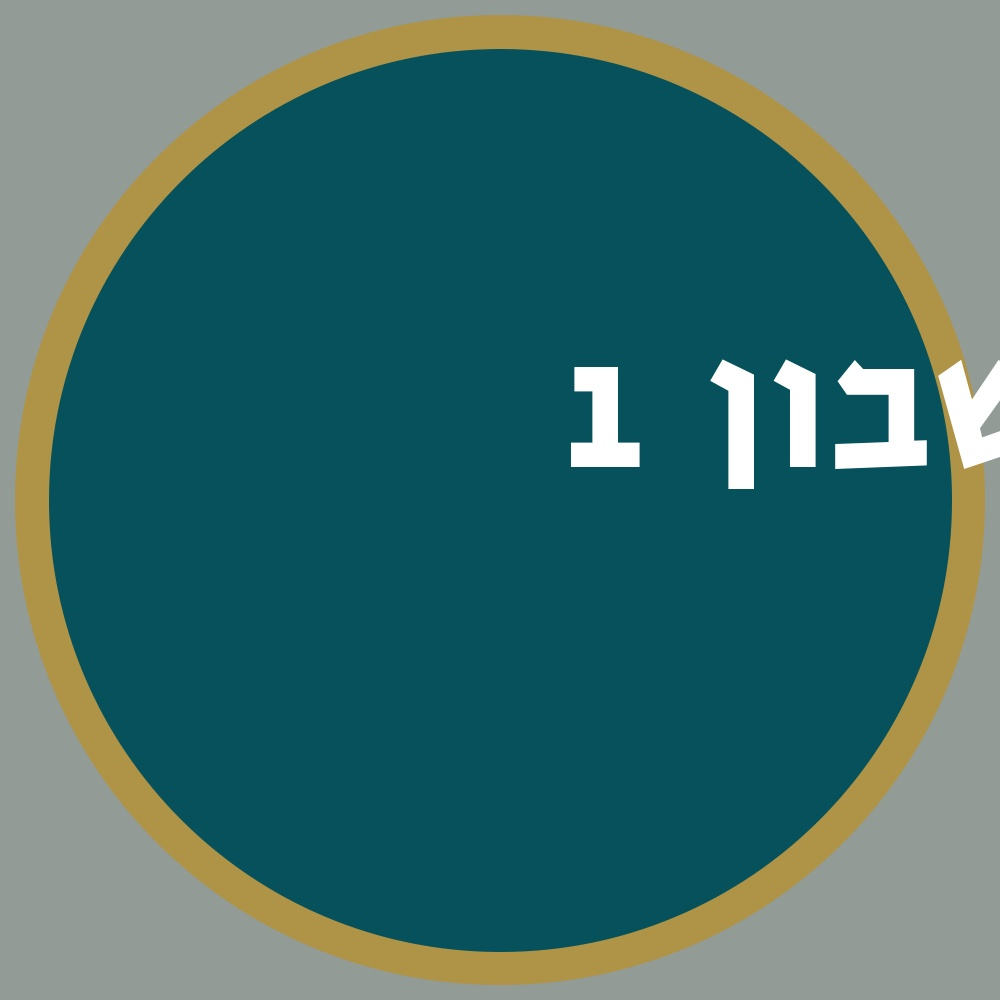
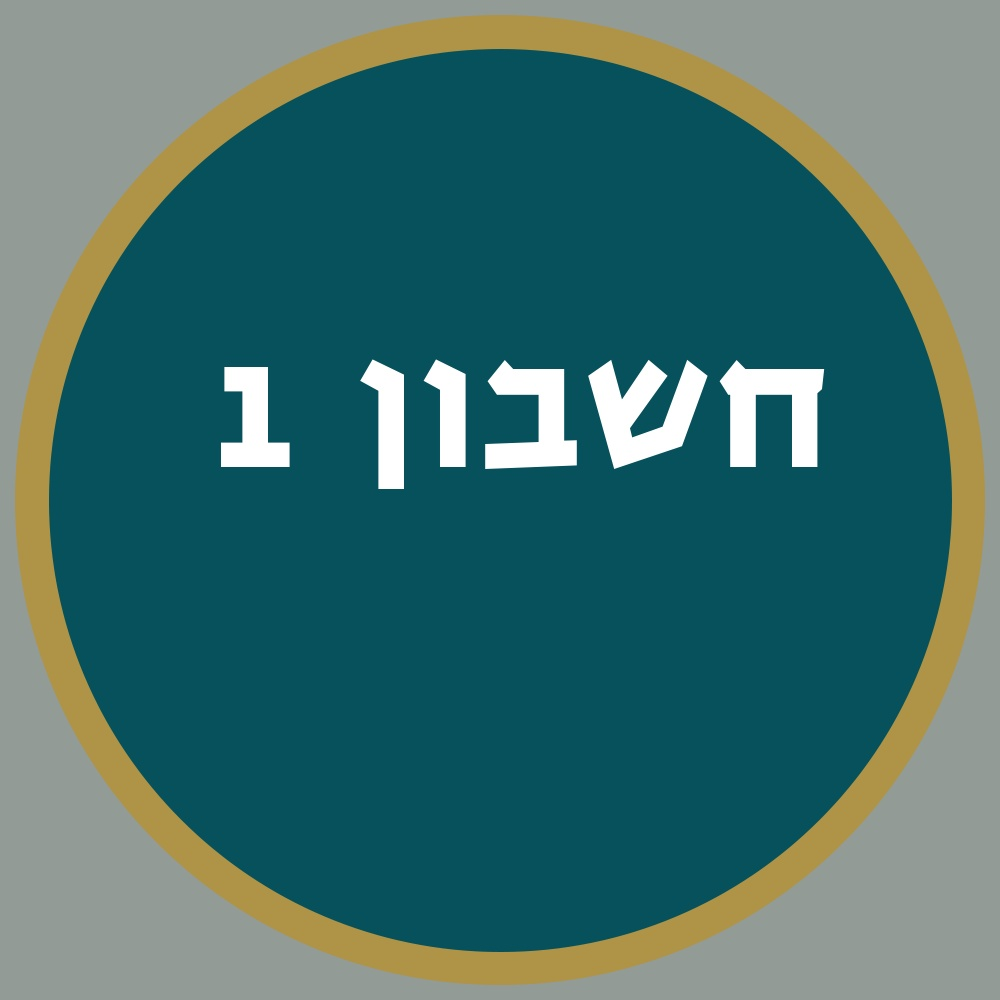
in the middle i guess

Changed region(s): [[0.341, 0.341, 1.0, 0.496], [0.217, 0.341, 0.31, 0.465], [0.713, 0.465, 0.775, 0.496]]

diff --git a/main.py b/main.py
@@ -27,8 +27,8 @@ def TEXT_TO_ICON(Chunks, Text, FilePath):
     monospace = ImageFont.truetype("fonts/Huji-Bold.otf",200)
 
     TopOffset = 300
-    SideOffSet = 500
-    LineOffset = 120
+    SideOffSet = 150
+    LineOffset = 0
 
 
     LoopCount = TopOffset
